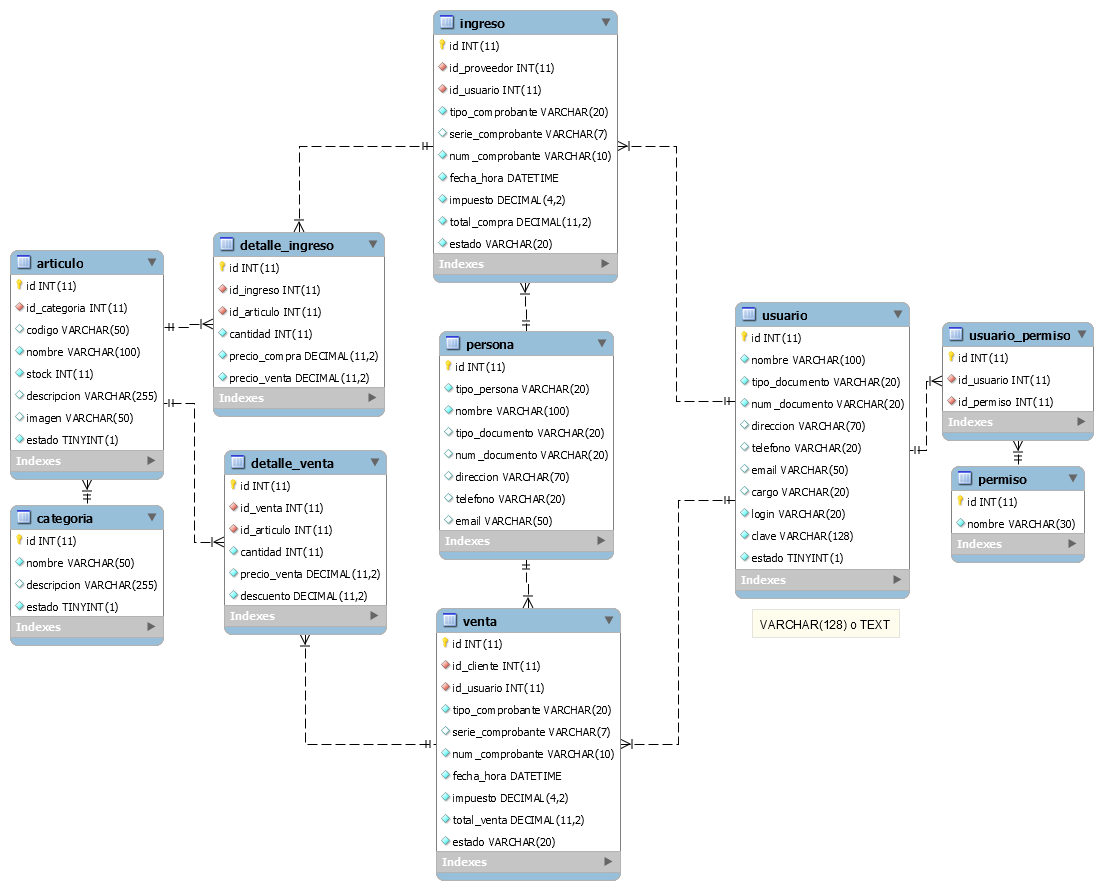
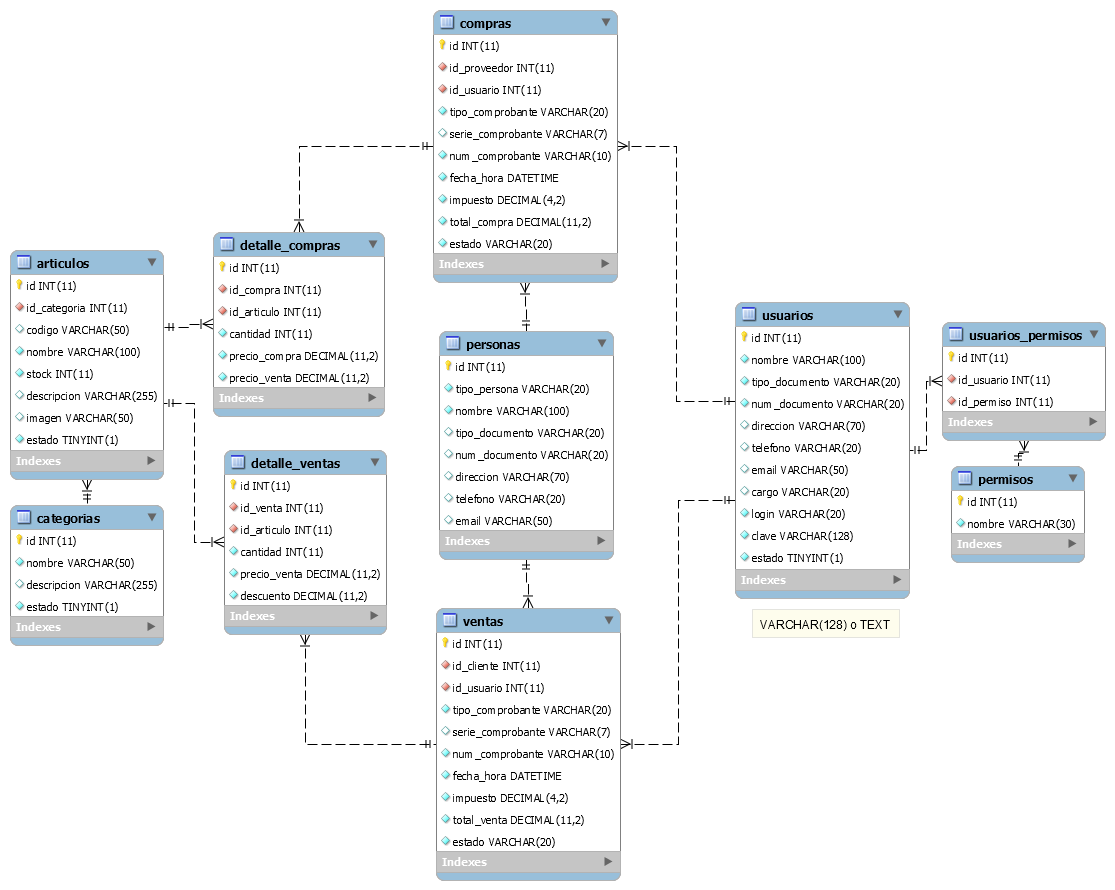
KKK

diff --git a/modelos/articulo.php b/modelos/articulo.php
@@ -8,8 +8,8 @@ class articulo {
     }
 
     public function listar() {
-        $sql = "select     a.id,a.id_categoria,c.nombre as nombreCategoria,a.codigo,a.nombre,a.stock,a.descripcion,a.imagen,a.estado
-                from       articulo a
+        $sql = "select     a.id,a.id_categoria,c.nombre as categoria,a.codigo,a.nombre,a.stock,a.descripcion,a.imagen,a.estado
+                from       articulos a
                 inner join categoria c
                 on         a.id_categoria = c.id
                 order by   a.id";
@@ -18,33 +18,33 @@ class articulo {
 
     public function buscar($id) {
         $sql = "select *
-                from   articulo
+                from   articulos
                 where  id = '$id'";
         return findById($sql);
     }
 
     public function guardar($idCategoria, $codigo, $nombre, $stock, $descripcion, $imagen) {
-        $sql = "insert into articulo (id_categoria,codigo,nombre,stock,descripcion,imagen,estado)
+        $sql = "insert into articulos (id_categoria,codigo,nombre,stock,descripcion,imagen,estado)
                 values('$idCategoria','$codigo','$nombre','$stock','$descripcion','$imagen','1')";
         return execute($sql);
     }
 
     public function editar($id, $idCategoria, $codigo, $nombre, $stock, $descripcion, $imagen) {
-        $sql = "update articulo
+        $sql = "update articulos
                 set    id_categoria = '$idCategoria',codigo = '$codigo',nombre = '$nombre',stock = '$stock',descripcion = '$descripcion',imagen = '$imagen',descripcion = '$descripcion',imagen = '$imagen'
                 where  id = '$id'";
         return execute($sql);
     }
 
     public function desactivar($id) {
-        $sql = "update articulo
+        $sql = "update articulos
                 set    estado = '0'
                 where  id = '$id'";
         return execute($sql);
     }
 
     public function activar($id) {
-        $sql = "update articulo
+        $sql = "update articulos
                 set    estado = '1'
                 where  id = '$id'";
         return execute($sql);

diff --git a/modelos/Categoria.php b/modelos/Categoria.php
@@ -9,40 +9,40 @@ class categoria {
 
     public function listar() {
         $sql = "select   *
-                from     categoria
+                from     categorias
                 order by id";
         return execute($sql);
     }
 
     public function buscar($id) {
         $sql = "select *
-                from   categoria
+                from   categorias
                 where  id = '$id'";
         return findById($sql);
     }
 
     public function guardar($nombre, $descripcion) {
-        $sql = "insert into categoria (nombre,descripcion,estado)
+        $sql = "insert into categorias (nombre,descripcion,estado)
                 values('$nombre','$descripcion','1')";
         return execute($sql);
     }
 
     public function editar($id, $nombre, $descripcion) {
-        $sql = "update categoria
+        $sql = "update categorias
                 set    nombre = '$nombre',descripcion = '$descripcion'
                 where  id = '$id'";
         return execute($sql);
     }
 
     public function desactivar($id) {
-        $sql = "update categoria
+        $sql = "update categorias
                 set    estado = '0'
                 where  id = '$id'";
         return execute($sql);
     }
 
     public function activar($id) {
-        $sql = "update categoria
+        $sql = "update categorias
                 set    estado = '1'
                 where  id = '$id'";
         return execute($sql);

diff --git a/vistas/listarArticulo.php b/vistas/listarArticulo.php
@@ -16,7 +16,7 @@
 
                 <div id="listadoRegistros">
                     <div class="card border-primary"> <!-- card bg-light -->
-                        <div class="card-header">Categorías</div>
+                        <div class="card-header">Artículos</div>
                         <div class="card-body text-primary"> <!-- card-body -->
 
                             <h5 class="card-title">Listado de artículos</h5>
@@ -25,9 +25,9 @@
                                     <thead> <!-- class="thead-dark" -->
                                         <tr>
                                             <th>id</th>
+                                            <th>nombre</th>
                                             <th>categoria</th>
                                             <th>codigo</th>
-                                            <th>nombre</th>
                                             <th>stock</th>
                                             <th>descripcion</th>
                                             <th>imagen</th>

diff --git a/controlador/controladorArticulo.php b/controlador/controladorArticulo.php
@@ -22,9 +22,9 @@ switch($action) {
         while ($obj = $respuesta->fetch_object()) { // Recorremos todos los registros que obtenemos de la tabla categoria
             $listJson[] = array(
                 '0' => '<a href="javascript:ver(' . $obj->id . ')">' . $obj->id . '</a>',
-                '1' => $obj->nombreCategoria,
-                '2' => $obj->codigo,
-                '3' => $obj->nombre,
+                '1' => $obj->nombre,
+                '2' => $obj->categoria,
+                '3' => $obj->codigo,
                 '4' => $obj->stock,
                 '5' => $obj->descripcion,
                 '6' => $obj->imagen, // '<img src="../files/articulos/' . obj->imagen . '" width="50"></img>',
